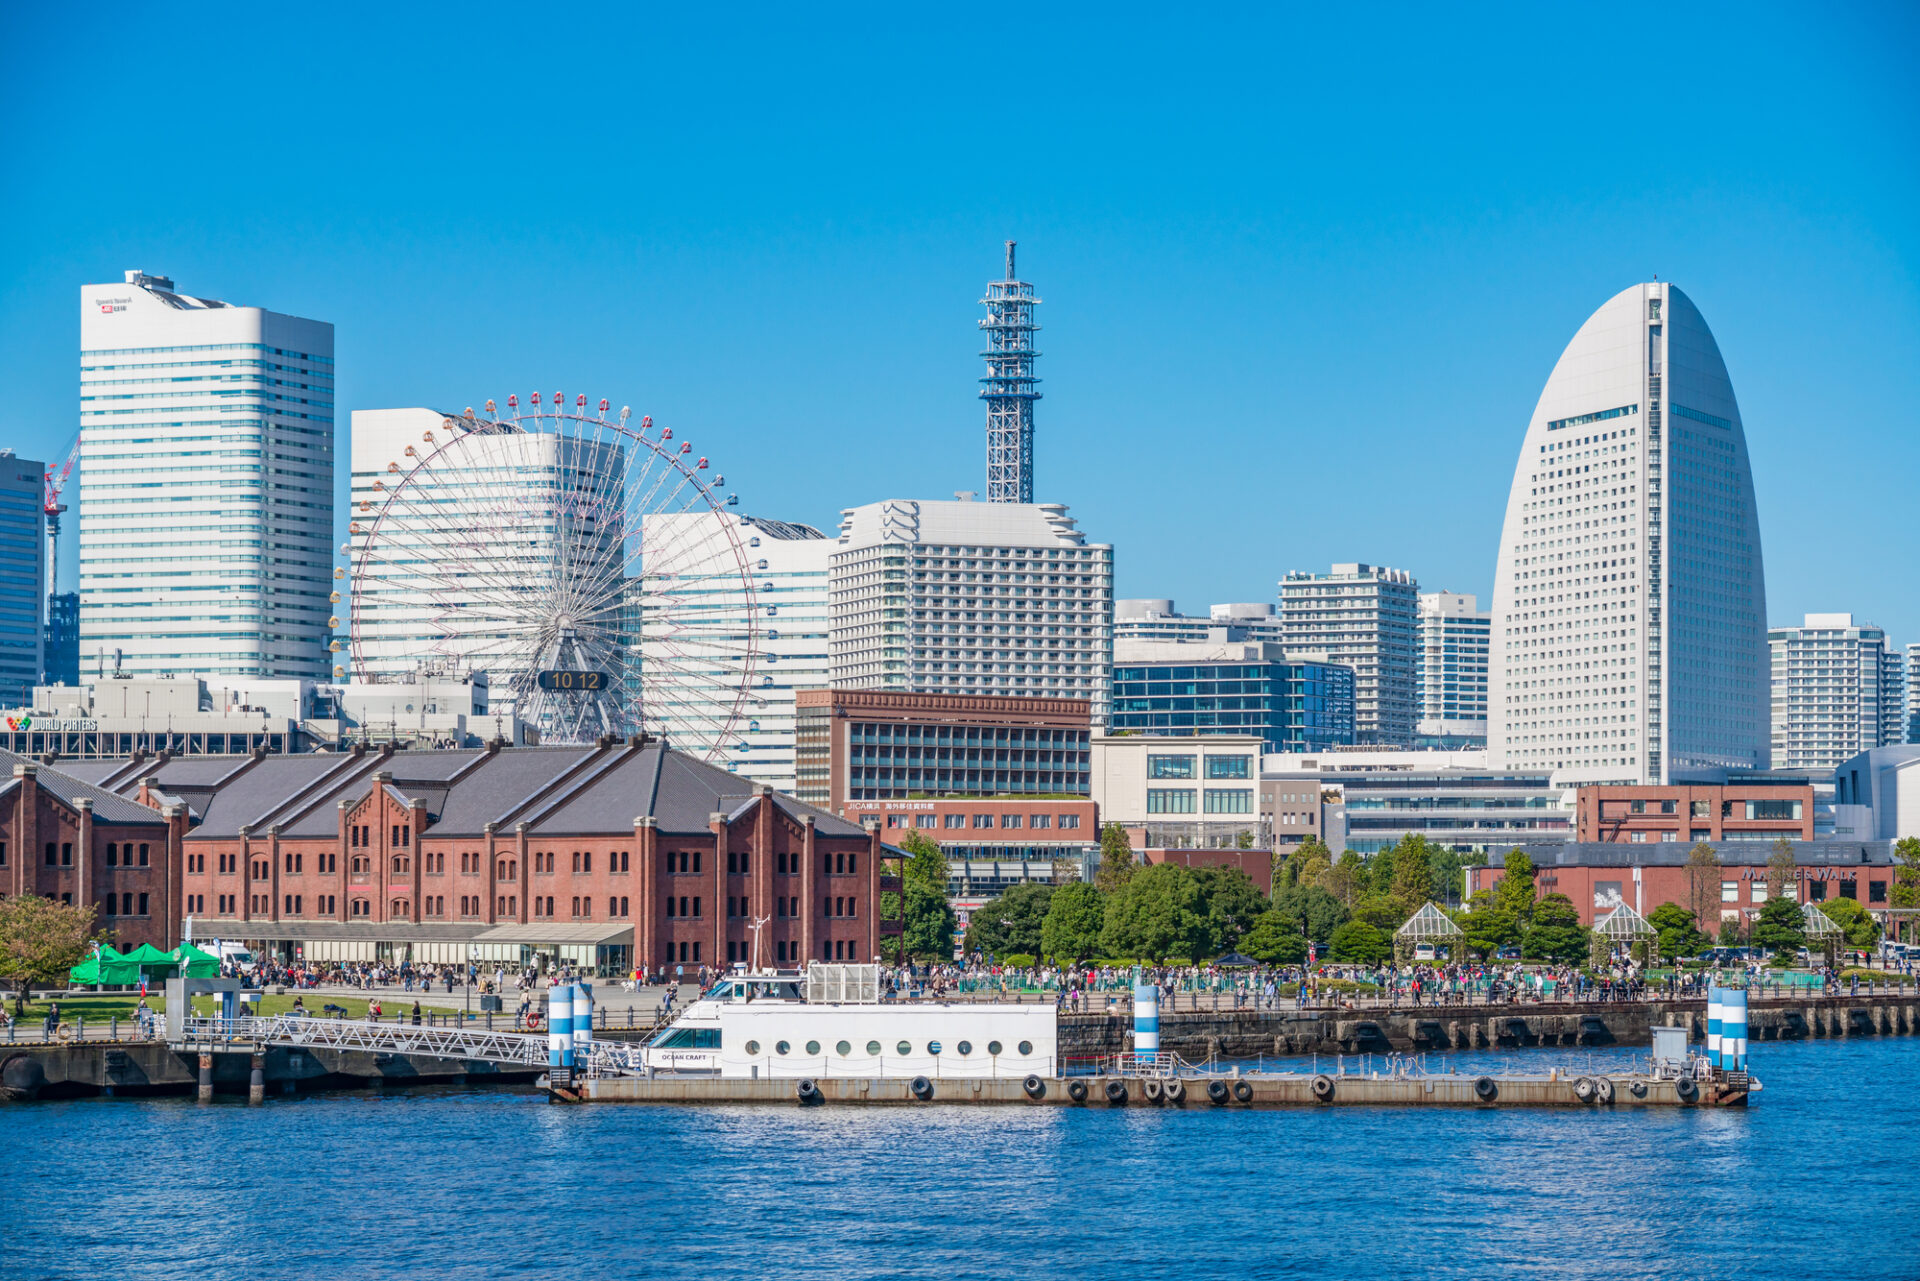
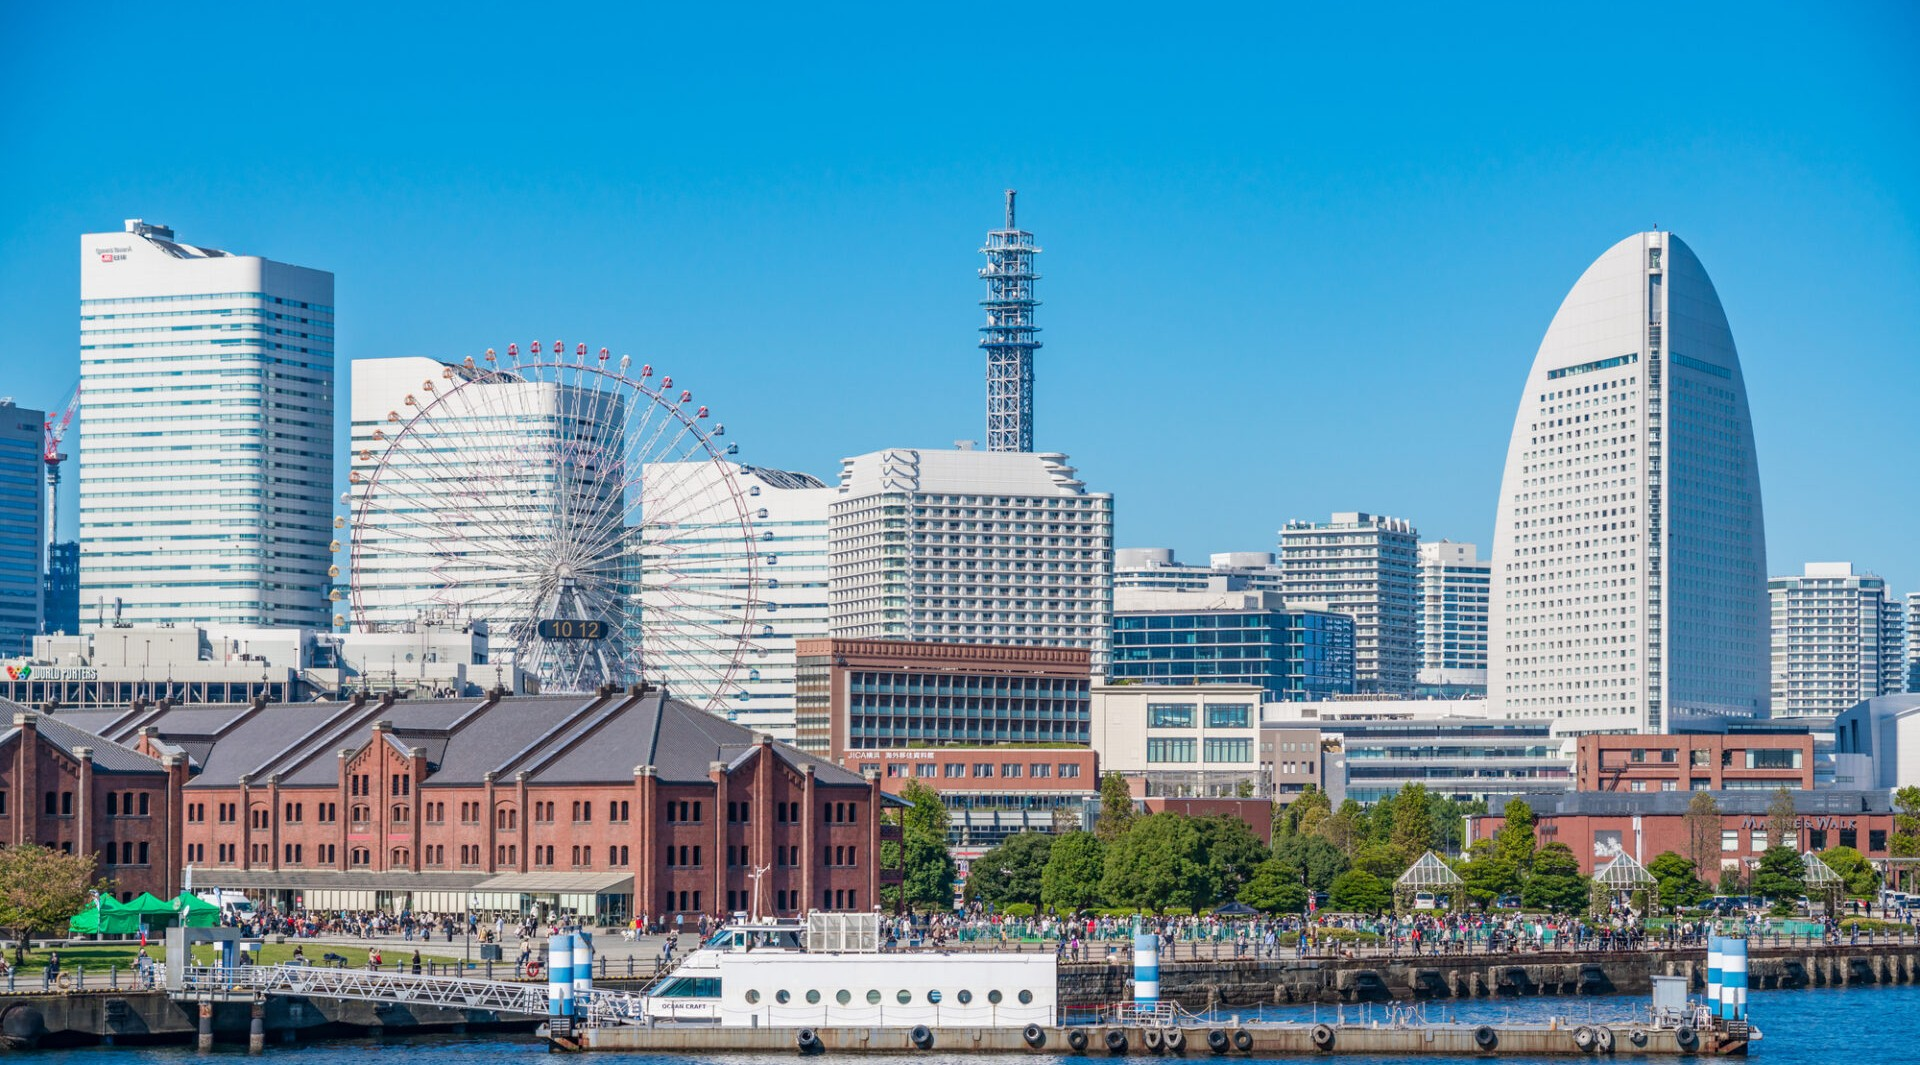
20260502

diff --git a/doyolab/index.html b/doyolab/index.html
@@ -13,8 +13,8 @@
 <body id="top">
 <header id="header">
 	<div id="headerWrap">
-		<h1><img src="images/xbp.ico"width="120" height="120" alt="logo">
-			<img src="images/スクリーンショット 2026-03-31 202052.png" width="300" height="120" alt="logo">
+		<h1><img src="images/xbp.ico"width="110" height="110" alt="logo">
+			<img src="./images/doyolab.png" width="300" height="120" alt="logo">
 		</h1>
 		<h2><span style="font-size: 28px;"></span></h2>
 		<nav id="mainnav">
@@ -23,10 +23,10 @@
 				<!--ここで目次書ける。リンクの貼り付け忘れずに-->
 				<ul>
 					<li><h2>：活動一覧</h2></li>
-					<li><h2><a href="./doyolab_home.html"target="_blank">doyolab<br>▶ プロジェクトノート</a></li></h2>
-					<li><h2><a href="../XBP_home.html"target="_blank">▶ XBP</a></li></h2>
-					<li><h2><a href="../digi_fab/index.html"target="_blank">▶ デジファブ</a></li></h2>
-					<li><h2><a href="https://doyolab.net/"target="_blank">▶ doyolab Info</a></li></h2>
+					<li><h2><a href="./doyolab_home.html"target="_blank">▶doyolab</a></li></h2>
+					<li><h2><a href="../XBP_home.html"target="_blank">▶XBP</a></li></h2>
+					<li><h2><a href="../digi_fab/index.html"target="_blank">▶デジファブ</a></li></h2>
+					<li><h2><a href="https://doyolab.net/"target="_blank">▶doyolab Info</a></li></h2>
 				</ul>
 			</div>
 		</nav>
@@ -35,7 +35,7 @@
 
 <!--タイトル画像入れれる-->
 <div id="mainImg">
-	<img src="images/A374CE12-8AE5-41F3-BB94-21A1DCC453FF.jpg"width="90%">
+	<img src="./images/みなとみらい.jpg"width="95%">
 </div>
 
 <!-- MESSAGE -->
@@ -48,35 +48,10 @@
 		</h2>
 	</div>
 </section>
-<!-- // MESSAGE -->
 
-<!-- GALLERY -->
-<section id="sec02">
-	<header>
-		<h2><span>Gallery</span></h2>
-	</header>
-	<ul id="gallery">
-		<li><img src="images/基盤.jpg"></li>
-		<li><img src="images/宇宙人.jpg"></li>
-		<li><img src="images/LINE_ALBUM_20250407_250416_1.jpg"></li>
-		<li><img src="images/配線.jpg"></li>
-		<li><img src="images/箱配線.jpg"></li>
-		<li><img src=""></li>
-		<li><img src=""></li>
-		<li><img src=></li>
-	</ul>
-</section>
-<!-- // GALLERY -->
-
-<!-- PROJECT -->
-<section id="sec03">
-	<header>
-		<h2><span><!--ここにタイトル書いたら画面に出るよ--></span></h2>
-	</header>
-</section>
-<!-- // PROJECT -->
 <footer id="footer">
-	Copyright(c) 2016 Sample Inc. All Rights Reserved. Design by <a href="http://f-tpl.com" target="_blank">http://f-tpl.com</a><!-- ←クレジット表記を外す場合はシリアルキーが必要です http://f-tpl.com/credit/ -->
+	(c) doyolab Home Page_<a href="https://doyolab.net/"target="_blank">doyolab.net</a><br>
+	(c) 2016 Sample Inc. All Rights Reserved. Design by <a href="http://f-tpl.com" target="_blank">http://f-tpl.com</a><!-- ←クレジット表記を外す場合はシリアルキーが必要です http://f-tpl.com/credit/ -->
 </footer>
 
 </body>

diff --git a/doyolab/css/2style.css b/doyolab/css/2style.css
@@ -60,20 +60,15 @@ a:active, a:focus,input:active, input:focus{outline:0;}
   top: 0;
   left: 50%;
   transform: translateX(-50%); /* 自分の幅の半分だけ自動で戻る */
-  max-width: 1280px;
+  max-width: 1920px;
   height: auto; /* 比率を維持 */
 }
-#mainImg img {
-  height: 528px; 
-  object-fit: contain; /* 画像全体が収まるように自動調整 */
-}
-
 
 /* フッター
 ------------------------------------------------------------*/
 #footer{
 	clear: both;
-	padding: 50px 10px 50px 0;
+	padding: 50px 10px 10px 0;
 	text-align: center;
 	font-size: 18px;
 }
@@ -266,7 +261,7 @@ section h2 span {
 	}
 	
   #footer{
-		padding: 30px 10px 70px 0;
+		padding: 5px 10px 20px 0;
 	}
 }
 
